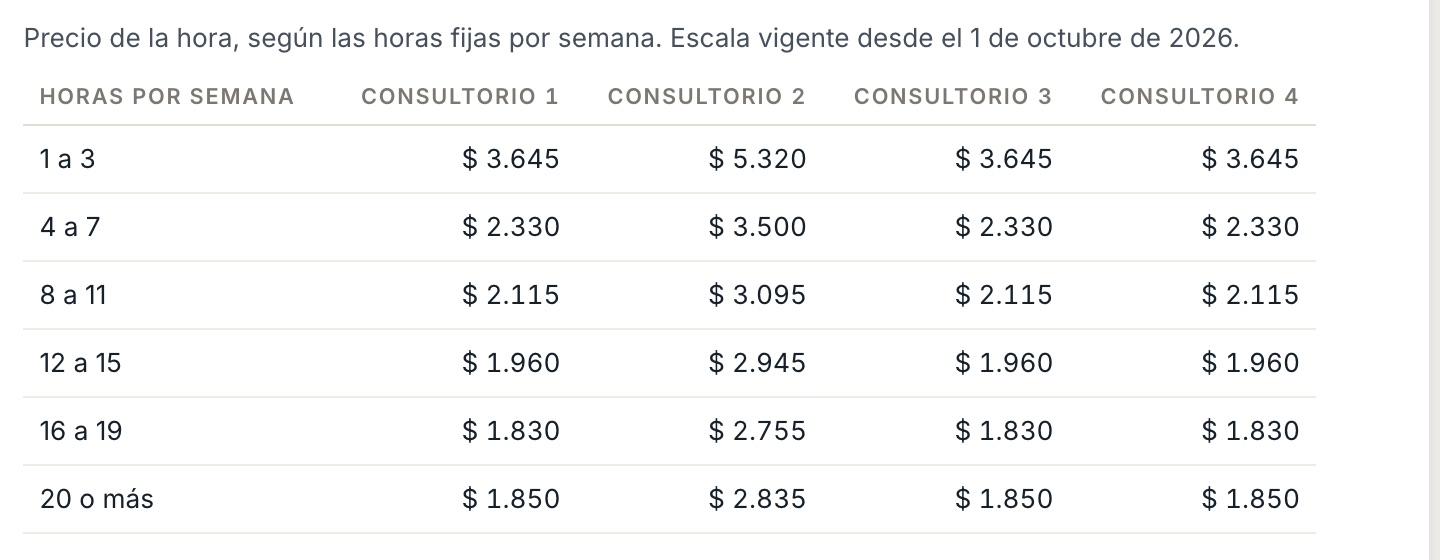
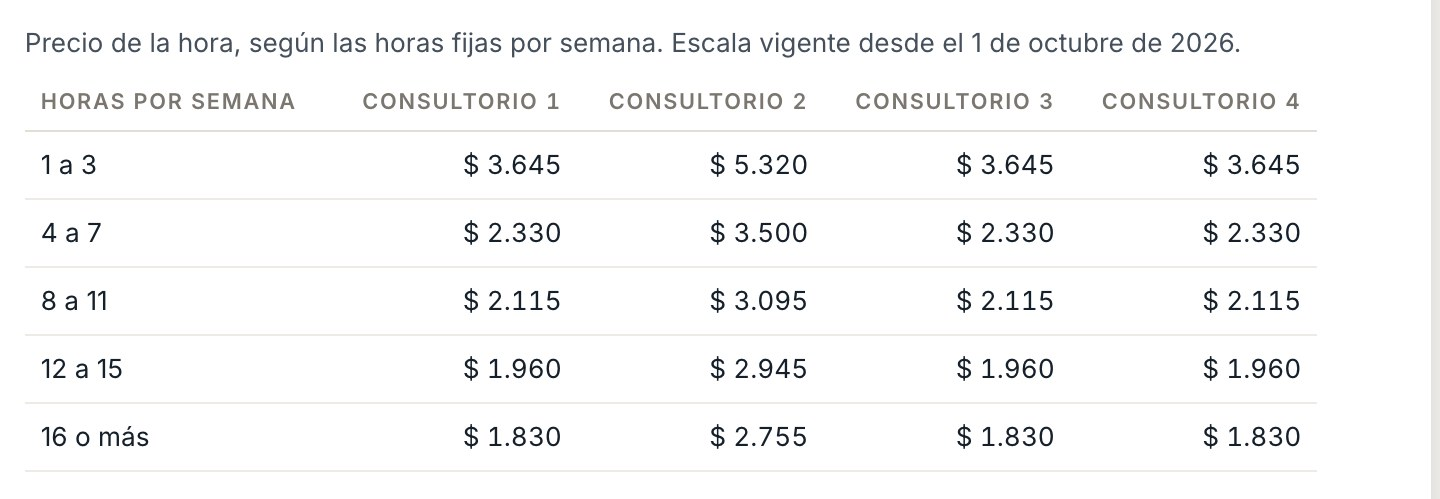
Centro: la escala de precios termina en 16 horas o más
El escalón de 20 cobraba la hora más cara que el de 16. Se sacó de la escala
de octubre, del editor de Espacios, de las normas y del manual (con su
captura), y se sube la versión de las normas para que se vuelvan a aceptar.

diff --git a/app/centro/normas/contenido.ts b/app/centro/normas/contenido.ts
@@ -54,7 +54,7 @@ export const NORMAS: Bloque[] = [
     titulo: 'Precio y pago',
     items: [
       'Se abona por hora reservada siempre, sin excepciones, en consultorios y SUM. Si el paciente, consultante o cliente no acudió, el profesional abona de todos modos.',
-      'Cuantas más horas fijas por semana contratás, más barata sale cada hora. Los tramos son de 1 a 3, de 4 a 7, de 8 a 11, de 12 a 15, de 16 a 19 y de 20 o más horas por semana. Tus horas fijas te ubican en un tramo, y todas se cobran al precio de ese tramo en la sala que usás. Ejemplo: con 10 horas fijas pagás cada hora al precio del tramo de 8 a 11.',
+      'Cuantas más horas fijas por semana contratás, más barata sale cada hora. Los tramos son de 1 a 3, de 4 a 7, de 8 a 11, de 12 a 15 y de 16 o más horas por semana. Tus horas fijas te ubican en un tramo, y todas se cobran al precio de ese tramo en la sala que usás. Ejemplo: con 10 horas fijas pagás cada hora al precio del tramo de 8 a 11.',
       'Una hora suelta se cobra a precio de hora suelta, tengas o no horas fijas: según cuántas horas seguidas reservás ese día. 1 hora, al precio del tramo de 1 a 3; 5 horas seguidas, al precio del tramo de 4 a 7. Las horas sueltas no cambian el precio de tus horas fijas ni suman para cambiar de tramo.',
       'Los valores se actualizan cuatro veces al año, en enero, abril, julio y octubre, según la inflación. Cada reserva conserva el precio que tenía al hacerse.',
       'Cada mes se paga por adelantado, del 1 al 10 del mismo mes. Entre el 11 y el 20 lleva un 15 % de recargo; del 21 en adelante, un 25 %. El sistema muestra el importe al día y cuánto pasa a costar después de cada plazo.',

diff --git a/app/centro/manual/contenido.ts b/app/centro/manual/contenido.ts
@@ -96,7 +96,7 @@ export const SECCIONES: Seccion[] = [
     titulo: 'Cuánto sale',
     parrafos: [
       'El precio por hora depende de la sala y de las horas fijas por semana que tenés contratadas.',
-      'Hay tramos de 1, 4, 8, 12, 16 y 20 horas semanales. Se paga el precio del último tramo que alcanzás: con 10 horas fijas, el de 8.',
+      'Hay tramos de 1, 4, 8, 12 y 16 horas semanales. Se paga el precio del último tramo que alcanzás: con 10 horas fijas, el de 8.',
       'Una hora suelta se cobra a precio de hora suelta, tengas o no horas fijas: 1 hora al precio del tramo de 1 a 3, 6 seguidas al precio de 4 a 7. Sumar sueltas no cambia el precio de tus horas fijas.',
       'La escala vigente está en Documentos, dentro de las normas, y en Reservar la ves al elegir las horas.',
     ],

diff --git a/app/centro/normas/Hoja.tsx b/app/centro/normas/Hoja.tsx
@@ -3,7 +3,7 @@ import { escalaVigente, listarEspacios } from '@/lib/consultorios';
 import { hoyISO } from '@/lib/consultorios-calculo';
 import { NORMAS, NORMAS_FECHA } from './contenido';
 
-/** Cómo se nombra cada tramo en la tabla: "4 a 7", y el último "20 o más". */
+/** Cómo se nombra cada tramo en la tabla: "4 a 7", y el último "16 o más". */
 function nombreDelTramo(desde: number, siguiente: number | undefined): string {
   return siguiente === undefined ? `${desde} o más` : desde === siguiente - 1 ? `${desde}` : `${desde} a ${siguiente - 1}`;
 }

diff --git a/lib/centro-acceso.ts b/lib/centro-acceso.ts
@@ -48,4 +48,4 @@ export const HORAS_DEL_ENLACE = 48;
 
 /** La versión del documento de convivencia que se acepta al entrar. El texto
  *  vive en `app/centro/normas/contenido.ts`; al cambiarlo se sube esto. */
-export const NORMAS_VERSION = '2026-10';
+export const NORMAS_VERSION = '2026-10-20';

diff --git a/app/os/consultorios/Espacios.tsx b/app/os/consultorios/Espacios.tsx
@@ -31,7 +31,7 @@ import { mandar } from './acciones';
 const DIAS = ['Lun', 'Mar', 'Mié', 'Jue', 'Vie', 'Sáb'];
 
 /** Los tramos de la escala, en horas por semana. */
-const TRAMOS = [1, 4, 8, 12, 16, 20];
+const TRAMOS = [1, 4, 8, 12, 16];
 
 /**
  * Cómo se nombra cada tramo.
